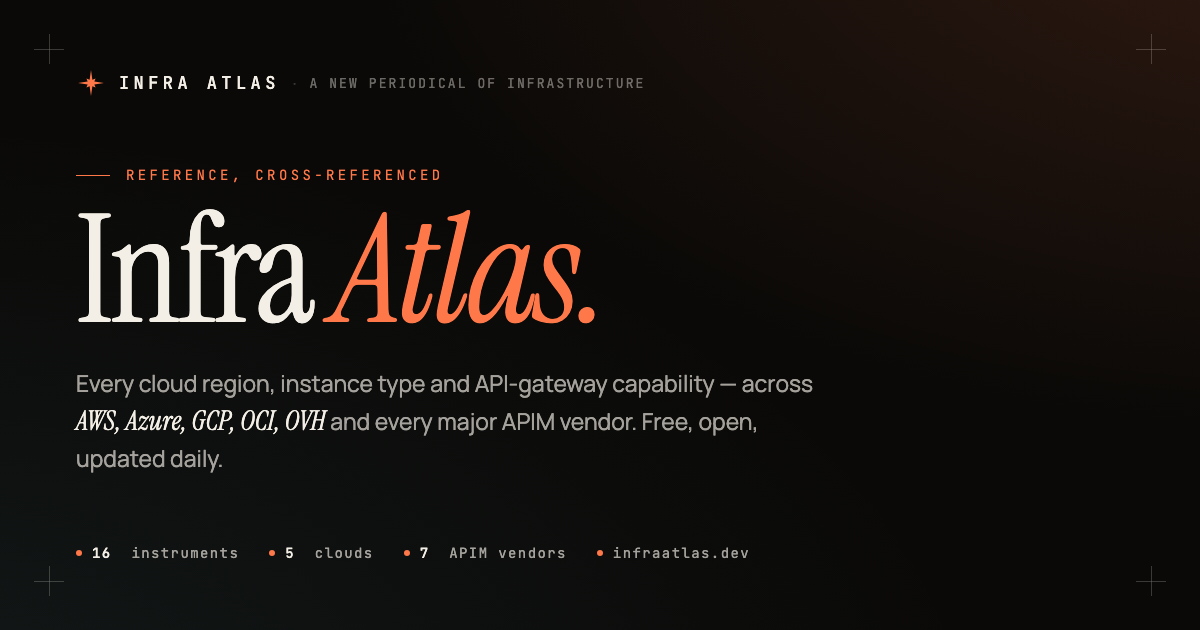
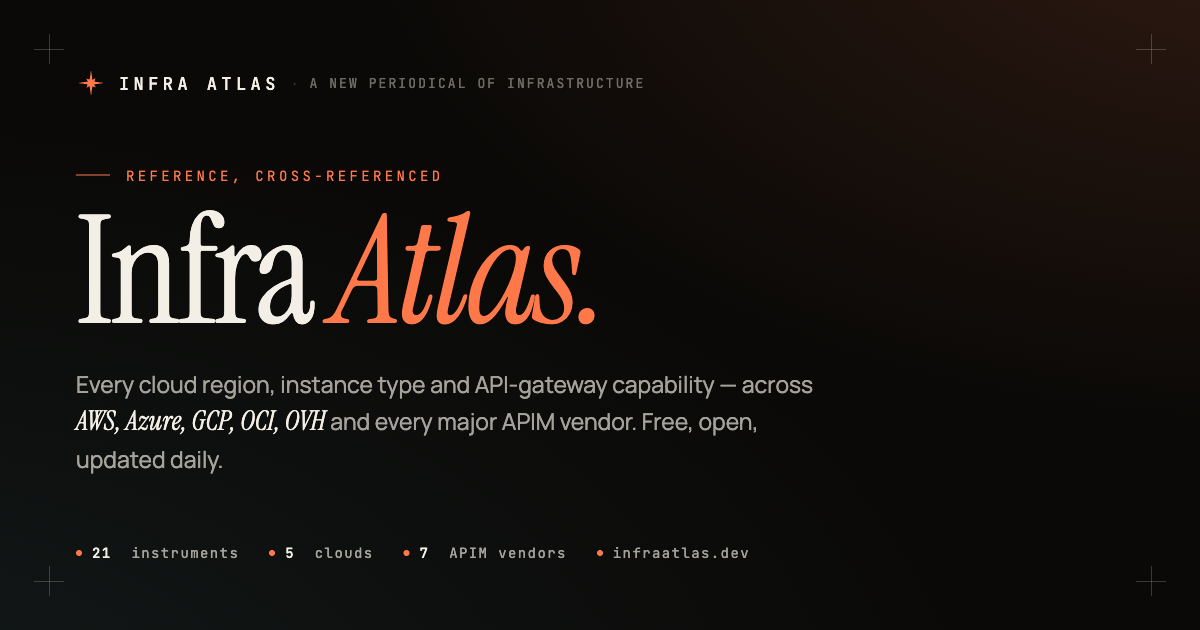
og: refresh social card to 21 instruments + cache-bust
- regenerate og.png from _ogcard.html (was '16 instruments' → now 21)
- bump og:image / twitter:image to ?v=2 across all pages so platforms
  fetch the fresh image when they re-scrape the link

diff --git a/compliance/index.html b/compliance/index.html
@@ -13,14 +13,14 @@
 <meta property="og:title" content="Cross-Cloud · Compliance Footprint · Infra Atlas">
 <meta property="og:description" content="Cross-cloud compliance-certification reference. Which major programs each hyperscaler holds — FedRAMP, IRAP, C5, ENS, ISO 27001, SOC 2, HIPAA, PCI DSS, EU sovereignty — across AWS, Azure, GCP, OCI, OVHcloud. With the region- and service-scope asterisks intact.">
 <meta property="og:url" content="https://infraatlas.dev/compliance/">
-<meta property="og:image" content="https://infraatlas.dev/og.png">
+<meta property="og:image" content="https://infraatlas.dev/og.png?v=2">
 <meta property="og:image:width" content="1200">
 <meta property="og:image:height" content="630">
 <meta property="og:image:alt" content="Infra Atlas — a reference for the infrastructure stack">
 <meta name="twitter:card" content="summary_large_image">
 <meta name="twitter:title" content="Cross-Cloud · Compliance Footprint · Infra Atlas">
 <meta name="twitter:description" content="Cross-cloud compliance-certification reference. Which major programs each hyperscaler holds — FedRAMP, IRAP, C5, ENS, ISO 27001, SOC 2, HIPAA, PCI DSS, EU sovereignty — across AWS, Azure, GCP, OCI, OVHcloud. With the region- and service-scope asterisks intact.">
-<meta name="twitter:image" content="https://infraatlas.dev/og.png">
+<meta name="twitter:image" content="https://infraatlas.dev/og.png?v=2">
 <link rel="preconnect" href="https://fonts.googleapis.com">
 <link rel="preconnect" href="https://fonts.gstatic.com" crossorigin>
 <link href="https://fonts.googleapis.com/css2?family=Instrument+Serif:ital@0;1&family=JetBrains+Mono:wght@300;400;500;600&family=Manrope:wght@300;400;500;600;700&display=swap" rel="stylesheet">

diff --git a/ai-atlas/index.html b/ai-atlas/index.html
@@ -13,14 +13,14 @@
 <meta property="og:title" content="Cross-Cloud · Generative AI Atlas · Infra Atlas">
 <meta property="og:description" content="Cross-vendor comparison of the major cloud generative-AI platforms — Amazon Bedrock, Azure AI Foundry, Vertex AI, OCI Generative AI, OVHcloud AI Endpoints. Model families, fine-tuning, RAG, agents, guardrails. With the asterisks intact.">
 <meta property="og:url" content="https://infraatlas.dev/ai-atlas/">
-<meta property="og:image" content="https://infraatlas.dev/og.png">
+<meta property="og:image" content="https://infraatlas.dev/og.png?v=2">
 <meta property="og:image:width" content="1200">
 <meta property="og:image:height" content="630">
 <meta property="og:image:alt" content="Infra Atlas — a reference for the infrastructure stack">
 <meta name="twitter:card" content="summary_large_image">
 <meta name="twitter:title" content="Cross-Cloud · Generative AI Atlas · Infra Atlas">
 <meta name="twitter:description" content="Cross-vendor comparison of the major cloud generative-AI platforms — Amazon Bedrock, Azure AI Foundry, Vertex AI, OCI Generative AI, OVHcloud AI Endpoints. Model families, fine-tuning, RAG, agents, guardrails. With the asterisks intact.">
-<meta name="twitter:image" content="https://infraatlas.dev/og.png">
+<meta name="twitter:image" content="https://infraatlas.dev/og.png?v=2">
 <link rel="preconnect" href="https://fonts.googleapis.com">
 <link rel="preconnect" href="https://fonts.gstatic.com" crossorigin>
 <link href="https://fonts.googleapis.com/css2?family=Instrument+Serif:ital@0;1&family=JetBrains+Mono:wght@300;400;500;600&family=Manrope:wght@300;400;500;600;700&display=swap" rel="stylesheet">

diff --git a/iam-matrix/index.html b/iam-matrix/index.html
@@ -13,14 +13,14 @@
 <meta property="og:title" content="Cross-Cloud · IAM Matrix · Infra Atlas">
 <meta property="og:description" content="Cross-hyperscaler identity & access management comparison — AWS IAM, Azure (Entra ID + RBAC), GCP IAM, OCI IAM. Policy models, evaluation logic, workload identity federation, short-lived credentials, ABAC. With the asterisks intact.">
 <meta property="og:url" content="https://infraatlas.dev/iam-matrix/">
-<meta property="og:image" content="https://infraatlas.dev/og.png">
+<meta property="og:image" content="https://infraatlas.dev/og.png?v=2">
 <meta property="og:image:width" content="1200">
 <meta property="og:image:height" content="630">
 <meta property="og:image:alt" content="Infra Atlas — a reference for the infrastructure stack">
 <meta name="twitter:card" content="summary_large_image">
 <meta name="twitter:title" content="Cross-Cloud · IAM Matrix · Infra Atlas">
 <meta name="twitter:description" content="Cross-hyperscaler identity & access management comparison — AWS IAM, Azure (Entra ID + RBAC), GCP IAM, OCI IAM. Policy models, evaluation logic, workload identity federation, short-lived credentials, ABAC. With the asterisks intact.">
-<meta name="twitter:image" content="https://infraatlas.dev/og.png">
+<meta name="twitter:image" content="https://infraatlas.dev/og.png?v=2">
 <link rel="preconnect" href="https://fonts.googleapis.com">
 <link rel="preconnect" href="https://fonts.gstatic.com" crossorigin>
 <link href="https://fonts.googleapis.com/css2?family=Instrument+Serif:ital@0;1&family=JetBrains+Mono:wght@300;400;500;600&family=Manrope:wght@300;400;500;600;700&display=swap" rel="stylesheet">

diff --git a/kubernetes/index.html b/kubernetes/index.html
@@ -13,14 +13,14 @@
 <meta property="og:title" content="Cross-Cloud · Kubernetes Atlas · Infra Atlas">
 <meta property="og:description" content="Cross-vendor managed Kubernetes comparison — EKS, AKS, GKE, OKE, OVH Managed Kubernetes. Supported versions, control-plane SLA, node-pool capabilities, node autoscaling, CNI, release channels. With the asterisks intact.">
 <meta property="og:url" content="https://infraatlas.dev/kubernetes/">
-<meta property="og:image" content="https://infraatlas.dev/og.png">
+<meta property="og:image" content="https://infraatlas.dev/og.png?v=2">
 <meta property="og:image:width" content="1200">
 <meta property="og:image:height" content="630">
 <meta property="og:image:alt" content="Infra Atlas — a reference for the infrastructure stack">
 <meta name="twitter:card" content="summary_large_image">
 <meta name="twitter:title" content="Cross-Cloud · Kubernetes Atlas · Infra Atlas">
 <meta name="twitter:description" content="Cross-vendor managed Kubernetes comparison — EKS, AKS, GKE, OKE, OVH Managed Kubernetes. Supported versions, control-plane SLA, node-pool capabilities, node autoscaling, CNI, release channels. With the asterisks intact.">
-<meta name="twitter:image" content="https://infraatlas.dev/og.png">
+<meta name="twitter:image" content="https://infraatlas.dev/og.png?v=2">
 <link rel="preconnect" href="https://fonts.googleapis.com">
 <link rel="preconnect" href="https://fonts.gstatic.com" crossorigin>
 <link href="https://fonts.googleapis.com/css2?family=Instrument+Serif:ital@0;1&family=JetBrains+Mono:wght@300;400;500;600&family=Manrope:wght@300;400;500;600;700&display=swap" rel="stylesheet">

diff --git a/confidential-computing/index.html b/confidential-computing/index.html
@@ -13,14 +13,14 @@
 <meta property="og:title" content="Cross-Cloud · Confidential Computing · Infra Atlas">
 <meta property="og:description" content="Cross-cloud confidential computing reference. Intel SGX, AMD SEV-SNP, Intel TDX, AWS Nitro Enclaves and confidential GPU — mapped against AWS, Azure, GCP and OCI, with the VM families and regions intact.">
 <meta property="og:url" content="https://infraatlas.dev/confidential-computing/">
-<meta property="og:image" content="https://infraatlas.dev/og.png">
+<meta property="og:image" content="https://infraatlas.dev/og.png?v=2">
 <meta property="og:image:width" content="1200">
 <meta property="og:image:height" content="630">
 <meta property="og:image:alt" content="Infra Atlas — a reference for the infrastructure stack">
 <meta name="twitter:card" content="summary_large_image">
 <meta name="twitter:title" content="Cross-Cloud · Confidential Computing · Infra Atlas">
 <meta name="twitter:description" content="Cross-cloud confidential computing reference. Intel SGX, AMD SEV-SNP, Intel TDX, AWS Nitro Enclaves and confidential GPU — mapped against AWS, Azure, GCP and OCI.">
-<meta name="twitter:image" content="https://infraatlas.dev/og.png">
+<meta name="twitter:image" content="https://infraatlas.dev/og.png?v=2">
 <link rel="preconnect" href="https://fonts.googleapis.com">
 <link rel="preconnect" href="https://fonts.gstatic.com" crossorigin>
 <link href="https://fonts.googleapis.com/css2?family=Instrument+Serif:ital@0;1&family=JetBrains+Mono:wght@300;400;500;600&family=Manrope:wght@300;400;500;600;700&display=swap" rel="stylesheet">

diff --git a/networking-matrix/index.html b/networking-matrix/index.html
@@ -13,14 +13,14 @@
 <meta property="og:title" content="Cross-Cloud · Networking Primitives Matrix · Infra Atlas">
 <meta property="og:description" content="A Rosetta stone for cloud networking — every core primitive mapped across AWS, Azure, Google Cloud and OCI. VPCs, subnets, peering, firewalls, load balancers, private links — with the asterisks intact.">
 <meta property="og:url" content="https://infraatlas.dev/networking-matrix/">
-<meta property="og:image" content="https://infraatlas.dev/og.png">
+<meta property="og:image" content="https://infraatlas.dev/og.png?v=2">
 <meta property="og:image:width" content="1200">
 <meta property="og:image:height" content="630">
 <meta property="og:image:alt" content="Infra Atlas — a reference for the infrastructure stack">
 <meta name="twitter:card" content="summary_large_image">
 <meta name="twitter:title" content="Cross-Cloud · Networking Primitives Matrix · Infra Atlas">
 <meta name="twitter:description" content="A Rosetta stone for cloud networking — every core primitive mapped across AWS, Azure, Google Cloud and OCI. With the asterisks intact.">
-<meta name="twitter:image" content="https://infraatlas.dev/og.png">
+<meta name="twitter:image" content="https://infraatlas.dev/og.png?v=2">
 <link rel="preconnect" href="https://fonts.googleapis.com">
 <link rel="preconnect" href="https://fonts.gstatic.com" crossorigin>
 <link href="https://fonts.googleapis.com/css2?family=Instrument+Serif:ital@0;1&family=JetBrains+Mono:wght@300;400;500;600&family=Manrope:wght@300;400;500;600;700&display=swap" rel="stylesheet">

diff --git a/egress/index.html b/egress/index.html
@@ -13,14 +13,14 @@
 <meta property="og:title" content="Cross-Cloud · Egress &amp; Data-Transfer Cost Map · Infra Atlas">
 <meta property="og:description" content="What it costs to move a gigabyte across AWS, Azure and Google Cloud — internet egress, cross-AZ, cross-region, NAT processing and private interconnect. Sourced, dated list prices.">
 <meta property="og:url" content="https://infraatlas.dev/egress/">
-<meta property="og:image" content="https://infraatlas.dev/og.png">
+<meta property="og:image" content="https://infraatlas.dev/og.png?v=2">
 <meta property="og:image:width" content="1200">
 <meta property="og:image:height" content="630">
 <meta property="og:image:alt" content="Infra Atlas — a reference for the infrastructure stack">
 <meta name="twitter:card" content="summary_large_image">
 <meta name="twitter:title" content="Cross-Cloud · Egress &amp; Data-Transfer Cost Map · Infra Atlas">
 <meta name="twitter:description" content="What it costs to move a gigabyte across AWS, Azure and Google Cloud — egress, cross-AZ, cross-region, NAT and interconnect. Sourced list prices.">
-<meta name="twitter:image" content="https://infraatlas.dev/og.png">
+<meta name="twitter:image" content="https://infraatlas.dev/og.png?v=2">
 <link rel="preconnect" href="https://fonts.googleapis.com">
 <link rel="preconnect" href="https://fonts.gstatic.com" crossorigin>
 <link href="https://fonts.googleapis.com/css2?family=Instrument+Serif:ital@0;1&family=JetBrains+Mono:wght@300;400;500;600&family=Manrope:wght@300;400;500;600;700&display=swap" rel="stylesheet">

diff --git a/apim-matrix/index.html b/apim-matrix/index.html
@@ -13,14 +13,14 @@
 <meta property="og:title" content="APIM · Feature Matrix · Infra Atlas">
 <meta property="og:description" content="Cross-vendor API management feature comparison. Every major APIM platform against every capability — OAuth, mTLS, rate limiting, GraphQL, self-hosted, FedRAMP. With the asterisks intact.">
 <meta property="og:url" content="https://infraatlas.dev/apim-matrix/">
-<meta property="og:image" content="https://infraatlas.dev/og.png">
+<meta property="og:image" content="https://infraatlas.dev/og.png?v=2">
 <meta property="og:image:width" content="1200">
 <meta property="og:image:height" content="630">
 <meta property="og:image:alt" content="Infra Atlas — a reference for the infrastructure stack">
 <meta name="twitter:card" content="summary_large_image">
 <meta name="twitter:title" content="APIM · Feature Matrix · Infra Atlas">
 <meta name="twitter:description" content="Cross-vendor API management feature comparison. Every major APIM platform against every capability — OAuth, mTLS, rate limiting, GraphQL, self-hosted, FedRAMP. With the asterisks intact.">
-<meta name="twitter:image" content="https://infraatlas.dev/og.png">
+<meta name="twitter:image" content="https://infraatlas.dev/og.png?v=2">
 <link rel="preconnect" href="https://fonts.googleapis.com">
 <link rel="preconnect" href="https://fonts.gstatic.com" crossorigin>
 <link href="https://fonts.googleapis.com/css2?family=Instrument+Serif:ital@0;1&family=JetBrains+Mono:wght@300;400;500;600&family=Manrope:wght@300;400;500;600;700&display=swap" rel="stylesheet">

diff --git a/mulesoft/index.html b/mulesoft/index.html
@@ -13,14 +13,14 @@
 <meta property="og:title" content="Mulesoft · Atlas · Infra Atlas">
 <meta property="og:description" content="Mulesoft Anypoint, demystified. CloudHub vs RTF vs Flex Gateway, DataWeave, vCore vs CloudHub 2.0 replica pricing, and the integration patterns the platform was built around.">
 <meta property="og:url" content="https://infraatlas.dev/mulesoft/">
-<meta property="og:image" content="https://infraatlas.dev/og.png">
+<meta property="og:image" content="https://infraatlas.dev/og.png?v=2">
 <meta property="og:image:width" content="1200">
 <meta property="og:image:height" content="630">
 <meta property="og:image:alt" content="Infra Atlas — a reference for the infrastructure stack">
 <meta name="twitter:card" content="summary_large_image">
 <meta name="twitter:title" content="Mulesoft · Atlas · Infra Atlas">
 <meta name="twitter:description" content="Mulesoft Anypoint, demystified. CloudHub vs RTF vs Flex Gateway, DataWeave, vCore vs CloudHub 2.0 replica pricing, and the integration patterns the platform was built around.">
-<meta name="twitter:image" content="https://infraatlas.dev/og.png">
+<meta name="twitter:image" content="https://infraatlas.dev/og.png?v=2">
 <link rel="preconnect" href="https://fonts.googleapis.com">
 <link rel="preconnect" href="https://fonts.gstatic.com" crossorigin>
 <link href="https://fonts.googleapis.com/css2?family=Instrument+Serif:ital@0;1&family=JetBrains+Mono:wght@300;400;500;600&family=Manrope:wght@300;400;500;600;700&display=swap" rel="stylesheet">

diff --git a/equivalent-sku/index.html b/equivalent-sku/index.html
@@ -13,14 +13,14 @@
 <meta property="og:title" content="Cross-Cloud · Equivalent-SKU Finder · Infra Atlas">
 <meta property="og:description" content="Pick an instance type on any cloud and see the closest-matching type on every other cloud, ranked with a transparent match score on vCPU, memory, architecture, and category.">
 <meta property="og:url" content="https://infraatlas.dev/equivalent-sku/">
-<meta property="og:image" content="https://infraatlas.dev/og.png">
+<meta property="og:image" content="https://infraatlas.dev/og.png?v=2">
 <meta property="og:image:width" content="1200">
 <meta property="og:image:height" content="630">
 <meta property="og:image:alt" content="Infra Atlas — a reference for the infrastructure stack">
 <meta name="twitter:card" content="summary_large_image">
 <meta name="twitter:title" content="Cross-Cloud · Equivalent-SKU Finder · Infra Atlas">
 <meta name="twitter:description" content="Pick an instance type on any cloud and see the closest-matching type on every other cloud, ranked with a transparent match score.">
-<meta name="twitter:image" content="https://infraatlas.dev/og.png">
+<meta name="twitter:image" content="https://infraatlas.dev/og.png?v=2">
 <link rel="preconnect" href="https://fonts.googleapis.com">
 <link rel="preconnect" href="https://fonts.gstatic.com" crossorigin>
 <link href="https://fonts.googleapis.com/css2?family=Instrument+Serif:ital@0;1&family=JetBrains+Mono:wght@300;400;500;600&family=Manrope:wght@300;400;500;600;700&display=swap" rel="stylesheet">

diff --git a/oci-compute/index.html b/oci-compute/index.html
@@ -13,14 +13,14 @@
 <meta property="og:title" content="OCI · Compute Observatory · Infra Atlas">
 <meta property="og:description" content="Every Oracle Cloud compute shape, charted against the regions that offer it. Series, OCPU, memory, architecture — filterable, cross-referenced, updated daily.">
 <meta property="og:url" content="https://infraatlas.dev/oci-compute/">
-<meta property="og:image" content="https://infraatlas.dev/og.png">
+<meta property="og:image" content="https://infraatlas.dev/og.png?v=2">
 <meta property="og:image:width" content="1200">
 <meta property="og:image:height" content="630">
 <meta property="og:image:alt" content="Infra Atlas — a reference for the infrastructure stack">
 <meta name="twitter:card" content="summary_large_image">
 <meta name="twitter:title" content="OCI · Compute Observatory · Infra Atlas">
 <meta name="twitter:description" content="Every Oracle Cloud compute shape, charted against the regions that offer it. Series, OCPU, memory, architecture — filterable, cross-referenced, updated daily.">
-<meta name="twitter:image" content="https://infraatlas.dev/og.png">
+<meta name="twitter:image" content="https://infraatlas.dev/og.png?v=2">
 <link rel="preconnect" href="https://fonts.googleapis.com">
 <link rel="preconnect" href="https://fonts.gstatic.com" crossorigin>
 <link href="https://fonts.googleapis.com/css2?family=Instrument+Serif:ital@0;1&family=JetBrains+Mono:wght@300;400;500;600&family=Manrope:wght@300;400;500;600;700&display=swap" rel="stylesheet">

diff --git a/self-hosted-apim/index.html b/self-hosted-apim/index.html
@@ -13,14 +13,14 @@
 <meta property="og:title" content="Self-Hosted APIM · Kong · Gravitee · IBM · Infra Atlas">
 <meta property="og:description" content="Kong vs Gravitee vs IBM API Connect — the three self-hostable APIMs compared on OSS editions, K8s nativity, plugins, and operating costs.">
 <meta property="og:url" content="https://infraatlas.dev/self-hosted-apim/">
-<meta property="og:image" content="https://infraatlas.dev/og.png">
+<meta property="og:image" content="https://infraatlas.dev/og.png?v=2">
 <meta property="og:image:width" content="1200">
 <meta property="og:image:height" content="630">
 <meta property="og:image:alt" content="Infra Atlas — a reference for the infrastructure stack">
 <meta name="twitter:card" content="summary_large_image">
 <meta name="twitter:title" content="Self-Hosted APIM · Kong · Gravitee · IBM · Infra Atlas">
 <meta name="twitter:description" content="Kong vs Gravitee vs IBM API Connect — the three self-hostable APIMs compared on OSS editions, K8s nativity, plugins, and operating costs.">
-<meta name="twitter:image" content="https://infraatlas.dev/og.png">
+<meta name="twitter:image" content="https://infraatlas.dev/og.png?v=2">
 <link rel="preconnect" href="https://fonts.googleapis.com">
 <link rel="preconnect" href="https://fonts.gstatic.com" crossorigin>
 <link href="https://fonts.googleapis.com/css2?family=Instrument+Serif:ital@0;1&family=JetBrains+Mono:wght@300;400;500;600&family=Manrope:wght@300;400;500;600;700&display=swap" rel="stylesheet">
